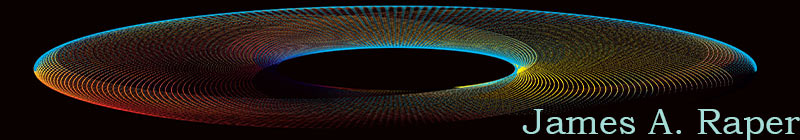
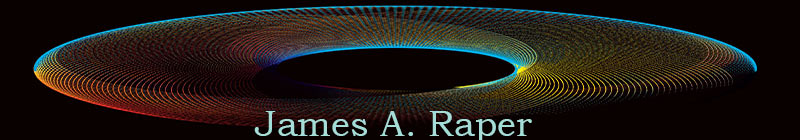
6th commit

Changed region(s): [[0.3125, 0.7714, 1.0, 1.0]]

diff --git a/pre-assessment/index.html b/pre-assessment/index.html
@@ -11,8 +11,10 @@
 <div id="container">
   <div id="header">
     <div class= “header-image”>
-    </div>
+      <img src="assets/img/assessment-3.jpg"
+    
     <h1><a href="index.html">James A. Raper</a></h1>
+  </div>
   </div>
   <div id="nav">
     <ul>
@@ -31,13 +33,16 @@
     <p>This complexity can be made to appear clear by effective organization and presentation and need not be reduced to meaningless "bite-sized" chunks of data, as simplification usually does. </p>
     </div>
     <p>Clarity refers to the focus on one particular message or goal at a time, rather than attempting to accomplish too much at once. Simplicity is often responsible for the "dumbing" of information rather than the illumination of it.</p>
+    <div id="img">
+      <img src="assets/img/content-image2.jpg" alt="The Most Interesting Man in The World">
+    </div>
     <div id="h3">
     <h3>Questions</h3>
     </div>
     <p>Please answer the following questions below. Remember to markup the information properly using HTML</p>
     <div id="h4">
     <h4>Explain the difference between the &quot;alt&quot; attribute and the &quot;title&quot; attribute. </h4>
-    <p>The &quot;alt&quot; text can be used to describe an image to search engines and for the hearing impaired. 
+    <p>The &quot;alt&quot; text can be used to describe an image to search engines and for the hearing impaired<i>(See image above)</i>. 
       <p> 
         
       <p title="Decription of Title text">The &quot;title&quot; attribute can be used to give an element a title.</p>
@@ -48,7 +53,7 @@
     <p><a href="https://darebee.com/"> Darebee Workouts </a></p>
   </div>
   <div id="footer">
-    <h6>&copy2023 James A. Raper<a href="#top">Back to Top</a></h6>
+    <h6>&copy;2023 James A. Raper<a href="#top">Back to Top</a></h6>
   </div>
 </div>
 </body>

diff --git a/pre-assessment/assets/css/screen.css b/pre-assessment/assets/css/screen.css
@@ -86,6 +86,11 @@ color: coral;
 #h4 {
 	color:orange;
 }
+#img {
+	float:right;
+	border-style:solid;
+	margin: 5px;
+}
 #footer {
 	background-color: #000;
 	color: #FFF;
